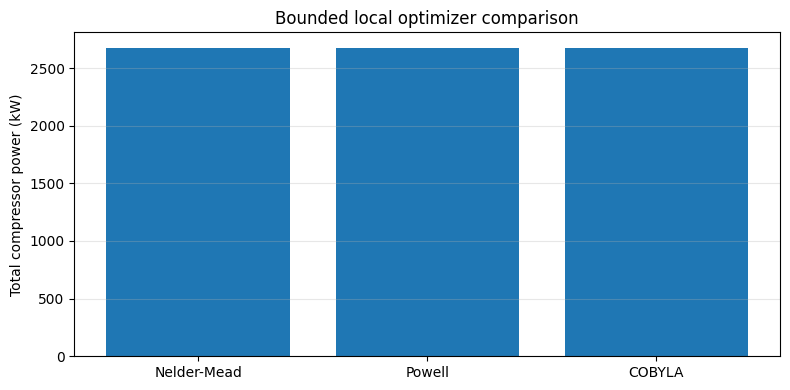
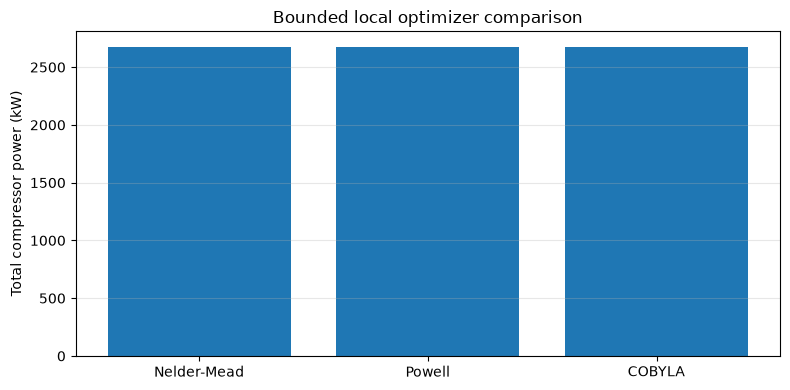
Auto-convert notebooks to Markdown for GitHub Pages (#4063)

diff --git a/docs/examples/NeqSim_Python_Optimization.md b/docs/examples/NeqSim_Python_Optimization.md
@@ -174,7 +174,7 @@ print(f"SciPy version: {scipy.__version__}")
 
 ```
 NeqSim and SciPy loaded successfully!
-SciPy version: 1.17.0
+SciPy version: 1.18.1
 ```
 
 </details>
@@ -256,7 +256,9 @@ print(f"\nInitial conditions:")
 print(f"  Feed flow rate: {process.getUnit('feed').getFlowRate('kg/hr'):.0f} kg/hr")
 print(f"  Stage 1 power: {process.getUnit('stage1').getPower('kW'):.1f} kW")
 print(f"  Stage 2 power: {process.getUnit('stage2').getPower('kW'):.1f} kW")
-print(f"  Total power: {process.getUnit('stage1').getPower('kW') + process.getUnit('stage2').getPower('kW'):.1f} kW")
+total_power = (process.getUnit("stage1").getPower("kW") +
+               process.getUnit("stage2").getPower("kW"))
+print(f"  Total power: {total_power:.1f} kW")
 ```
 
 <details>
@@ -485,10 +487,10 @@ assert result_powell.success
 Optimization terminated successfully.
          Current function value: 2676.023229
          Iterations: 3
-         Function evaluations: 209
+         Function evaluations: 201
 
 === Powell Results ===
-Function evaluations: 209
+Function evaluations: 201
 Optimal intermediate pressure: 60.06 bara
 Optimal intercooler temp: 20.0 °C
 Minimum total power: 2676.0 kW
@@ -518,7 +520,8 @@ for algorithm in algorithms:
 
 print(f"{'Algorithm':<15} {'P_inter (bara)':<15} {'T_inter (C)':<15} {'Power (kW)':<12} {'Runs'}")
 for name, res in algorithm_results.items():
-    print(f"{name:<15} {res['x'][0]:<15.2f} {res['x'][1]-273.15:<15.2f} {res['fun']:<12.2f} {res['nfev']}")
+    print(f"{name:<15} {res['x'][0]:<15.2f} "
+          f"{res['x'][1] - 273.15:<15.2f} {res['fun']:<12.2f} {res['nfev']}")
 
 plt.figure(figsize=(8, 4))
 plt.bar(algorithm_results.keys(), [r["fun"] for r in algorithm_results.values()])
@@ -535,7 +538,7 @@ save_figure("python-optimization-algorithms.png")
 ```
 Algorithm       P_inter (bara)  T_inter (C)     Power (kW)   Runs
 Nelder-Mead     60.06           20.00           2676.02      58
-Powell          60.06           20.00           2676.02      210
+Powell          60.06           20.00           2676.02      202
 COBYLA          60.06           20.00           2676.02      39
 ```
 
@@ -645,7 +648,8 @@ for spec in constraint_specs:
 constrained_problem.evaluate_constraints([50.0, 303.15])
 constrained_problem.evaluate([75.0, 313.15])
 constrained_problem.evaluate_constraints([50.0, 303.15])
-assert np.isclose(constrained_problem.process.getUnit("stage1").getOutletStream().getPressure("bara"), 50.0)
+stage1_discharge = constrained_problem.process.getUnit("stage1").getOutletStream()
+assert np.isclose(stage1_discharge.getPressure("bara"), 50.0)
 ```
 
 <details>
@@ -981,7 +985,10 @@ def physical_curve_variables(u):
 curve_result_scaled = optimize.minimize(
     lambda u: curve_problem.objective(physical_curve_variables(u)) / 1000.0,
     x0=np.array([0.5, 0.5]), method="SLSQP", bounds=[(0.0, 1.0)] * 2,
-    constraints=[{"type": "ineq", "fun": lambda u: curve_problem.margins(physical_curve_variables(u))}],
+    constraints=[{
+        "type": "ineq",
+        "fun": lambda u: curve_problem.margins(physical_curve_variables(u)),
+    }],
     options={"maxiter": 100, "ftol": 1e-8, "eps": 1e-5},
 )
 curve_optimum = physical_curve_variables(curve_result_scaled.x)
@@ -1342,7 +1349,7 @@ assert min(constraint_values) >= -1e-5
 
 ```
 Optimization terminated successfully    (Exit mode 0)
-            Current function value: 2676.0232355933213
+            Current function value: 2676.0232355928156
             Iterations: 7
             Function evaluations: 21
             Gradient evaluations: 7
@@ -1437,7 +1444,8 @@ for weights in weight_sets:
                                              lambda p: negative_throughput(p) / 100000.0])
     problem_pareto = NeqSimOptimizationProblem(create_gas_process, pareto_variables, objective)
     outcome = optimize.minimize(problem_pareto, problem_pareto.get_x0(), method="Powell",
-                                bounds=problem_pareto.get_bounds(), options={"maxiter": 60, "ftol": 1e-6})
+                                bounds=problem_pareto.get_bounds(),
+                                options={"maxiter": 60, "ftol": 1e-6})
     assert outcome.success
     plant = problem_pareto.simulate(outcome.x)
     pareto_candidates.append({"power": total_power_objective(plant),
@@ -1450,20 +1458,28 @@ for delivery_rate in np.linspace(20000.0, 100000.0, n_points):
         plant = create_gas_process()
         plant.getUnit("feed").setFlowRate(rate, "kg/hr")
         return plant
-    tradeoff = NeqSimOptimizationProblem(fixed_flow_factory, [pareto_variables[1]], total_power_objective)
+    tradeoff = NeqSimOptimizationProblem(
+        fixed_flow_factory, [pareto_variables[1]], total_power_objective
+    )
     outcome = optimize.minimize_scalar(lambda p: tradeoff([p]), bounds=(40.0, 80.0),
                                        method="bounded", options={"xatol": 0.01})
     assert outcome.success
     plant = tradeoff.simulate([outcome.x])
-    pareto_candidates.append({"power": total_power_objective(plant),
-                              "throughput": -negative_throughput(plant), "method": "delivery sweep"})
+    pareto_candidates.append({
+        "power": total_power_objective(plant),
+        "throughput": -negative_throughput(plant),
+        "method": "delivery sweep",
+    })
 
 def dominates(a, b):
     return (a["power"] <= b["power"] and a["throughput"] >= b["throughput"]
             and (a["power"] < b["power"] or a["throughput"] > b["throughput"]))
 
-pareto_points = sorted([p for p in pareto_candidates
-                        if not any(dominates(q, p) for q in pareto_candidates)], key=lambda p: p["throughput"])
+pareto_points = sorted(
+    [p for p in pareto_candidates
+     if not any(dominates(q, p) for q in pareto_candidates)],
+    key=lambda point: point["throughput"],
+)
 # Merge numerical duplicates within 1 kg/hr and 0.01 kW for readable reporting.
 unique_points = {}
 for point in pareto_points:
@@ -1599,20 +1615,20 @@ assert np.isfinite(result_de.fun)
 Running Differential Evolution (global optimizer)...
 This may take a minute...
 
-differential_evolution step 1: f(x)= 1757.0432113447007
-differential_evolution step 2: f(x)= 1757.0432113447007
-differential_evolution step 3: f(x)= 1757.0432113447007
-differential_evolution step 4: f(x)= 1689.6699097062756
+differential_evolution step 1: f(x)= 1757.043211344709
+differential_evolution step 2: f(x)= 1757.043211344709
+differential_evolution step 3: f(x)= 1757.043211344709
+differential_evolution step 4: f(x)= 1689.6699097062701
 differential_evolution step 5: f(x)= 1644.3367854612077
 differential_evolution step 6: f(x)= 1644.3367854612077
-differential_evolution step 7: f(x)= 1625.2569627541707
-differential_evolution step 8: f(x)= 1625.2569627541707
-differential_evolution step 9: f(x)= 1625.2569627541707
-differential_evolution step 10: f(x)= 1619.2445901463025
-differential_evolution step 11: f(x)= 1613.6685766345904
-differential_evolution step 12: f(x)= 1612.2245813631134
-differential_evolution step 13: f(x)= 1611.2775292568967
-differential_evolution step 14: f(x)= 1607.3776420749996
+differential_evolution step 7: f(x)= 1625.256962754167
+differential_evolution step 8: f(x)= 1625.256962754167
+differential_evolution step 9: f(x)= 1625.256962754167
+differential_evolution step 10: f(x)= 1619.2445901457518
+differential_evolution step 11: f(x)= 1613.6685753392185
+differential_evolution step 12: f(x)= 1612.2245813625084
+differential_evolution step 13: f(x)= 1611.2775282173066
+differential_evolution step 14: f(x)= 1607.3776420499898
 Polishing solution with 'L-BFGS-B'
 
 === Differential Evolution Results ===
@@ -1631,7 +1647,7 @@ Minimum total power: 1605.6 kW
 
 ## 9. Gradient-Based Optimization
 
-For smooth problems, gradient-based methods can be more efficient. We can estimate gradients numerically.
+For smooth problems with reproducible derivatives, gradient-based methods can be more efficient. A process simulator may introduce small numerical changes between finite-difference evaluations. A bounded L-BFGS-B candidate can then be physically useful even when its line search does not certify convergence. Compare it with the independently converged Powell result below and retain the solver status.
 
 ```python
 # Gradient-based optimization with L-BFGS-B
@@ -1652,11 +1668,21 @@ result_lbfgs = optimize.minimize(
 print("\n=== L-BFGS-B Results ===")
 print(f"Success: {result_lbfgs.success}")
 print(f"Function evaluations: {problem.eval_count}")
-print(f"Optimal intermediate pressure: {result_lbfgs.x[0]:.2f} bara")
-print(f"Optimal intercooler temp: {result_lbfgs.x[1] - 273.15:.1f} °C")
-print(f"Minimum total power: {result_lbfgs.fun:.1f} kW")
+print(f"Candidate intermediate pressure: {result_lbfgs.x[0]:.2f} bara")
+print(f"Candidate intercooler temp: {result_lbfgs.x[1] - 273.15:.1f} °C")
+print(f"Reported candidate power: {result_lbfgs.fun:.1f} kW")
 
-assert result_lbfgs.success, result_lbfgs.message
+# Verify the returned point with a fresh process solve, including mass balance.
+checked_lbfgs_power = problem.evaluate(result_lbfgs.x)
+assert np.isfinite(checked_lbfgs_power)
+assert all(lower <= value <= upper for value, (lower, upper) in
+           zip(result_lbfgs.x, problem.get_bounds()))
+assert abs(checked_lbfgs_power - result_lbfgs.fun) <= 0.5
+assert checked_lbfgs_power <= result_powell.fun + 0.5
+print(f"Freshly checked candidate power: {checked_lbfgs_power:.3f} kW")
+if not result_lbfgs.success:
+    print(f"L-BFGS-B did not certify convergence: {result_lbfgs.message}")
+    print("Use the independently converged Powell solution as the qualified optimum.")
 ```
 
 <details>
@@ -1666,10 +1692,11 @@ assert result_lbfgs.success, result_lbfgs.message
 
 === L-BFGS-B Results ===
 Success: True
-Function evaluations: 60
-Optimal intermediate pressure: 60.03 bara
-Optimal intercooler temp: 20.0 °C
-Minimum total power: 2676.0 kW
+Function evaluations: 48
+Candidate intermediate pressure: 60.03 bara
+Candidate intercooler temp: 20.0 °C
+Reported candidate power: 2676.0 kW
+Freshly checked candidate power: 2676.023 kW
 ```
 
 </details>
@@ -1840,7 +1867,7 @@ assert np.isclose(results["process"].getUnit("stage1").getOutletStream().getPres
 ```
 === Optimization Results ===
 Success: True
-Evaluations: 210
+Evaluations: 202
 
 Optimal values:
   intermediate_pressure: 60.06

diff --git a/docs/examples/index.md b/docs/examples/index.md
@@ -84,7 +84,7 @@ required workflow before engineering reuse. For a supported starting point, use 
 | Example | Build status | Capability |
 |---------|---------------|------------|
 | [AcousticCompressibilityConversionExample](AcousticCompressibilityConversionExample.java) | **Build-verified source** | Java example |
-| [ChemicalReactionEquilibriumExample](ChemicalReactionEquilibriumExample.java) | **Build-verified source** | Water-gas-shift reactive-equilibrium quickstart |
+| [ChemicalReactionEquilibriumExample](ChemicalReactionEquilibriumExample.java) | **Build-verified source** | Java example |
 | [EclipseE300ExportImportExample](EclipseE300ExportImportExample.java) | **Build-verified source** | Eclipse E300 fluid export and import workflow |
 | [FlowRegimeDebug](FlowRegimeDebug.java) | **Build-verified source** | Flow-regime diagnostic calculations |
 | [FlowRegimeDetectionExample](FlowRegimeDetectionExample.java) | **Build-verified source** | Flow-regime detection across operating cases |
